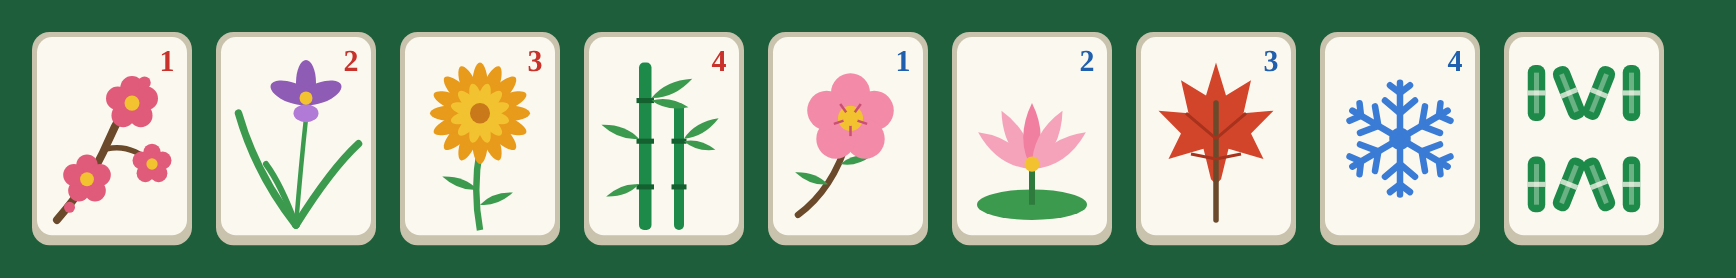
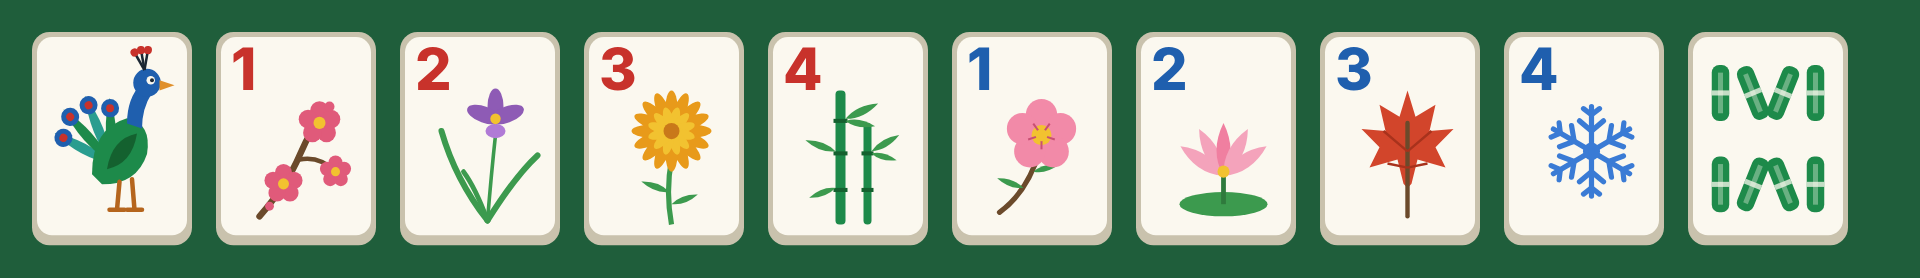
Tiles: much bigger numbers on flower and season tiles; redraw 1 bamboo as a peacock
Claude-Session: https://claude.ai/code/session_015YHyyK2QNgGagiGzuaLbCn

diff --git a/client/src/TileFace.tsx b/client/src/TileFace.tsx
@@ -207,18 +207,37 @@ function StickShape([x, y, h, c, tilt = 0]: Stick, key: number): ReactElement {
   );
 }
 
-/** One of bamboo: a simple bird. */
+/** One of bamboo: a peacock with a crest and a fanned tail (flat style). */
 function Bird(): ReactElement {
+  const tail: [number, number][] = [[-62, 26], [-42, 29], [-22, 29], [-2, 26]];
   return (
     <g>
-      <path d="M14 58 Q8 70 20 70 L28 60 Z" fill={BLUE} />
-      <path d="M18 60 Q12 74 26 72 L30 62 Z" fill={RED} />
-      <ellipse cx={32} cy={48} rx={14} ry={11} fill={GREEN} />
-      <circle cx={42} cy={30} r={7} fill={GREEN} />
-      <path d="M48 29 L56 31 L48 33 Z" fill={RED} />
-      <circle cx={44} cy={29} r={1.6} fill={IVORY} />
-      <path d="M38 23 Q40 14 46 18 Q42 20 42 24 Z" fill={RED} />
-      <path d="M30 59 L28 70 M34 59 L36 70" stroke={DARK} strokeWidth={2} />
+      {/* Tail feathers fanning down to the left, each with an "eye". */}
+      {tail.map(([angle, len], i) => (
+        <g key={i} transform={`translate(30 50) rotate(${angle + 180})`}>
+          <path d={`M0 0 Q4 ${len * 0.5} 0 ${len} Q-4 ${len * 0.5} 0 0 Z`} fill={i % 2 ? GREEN : '#2a9d8f'} />
+          <circle cx={0} cy={len - 4} r={3.6} fill={BLUE} />
+          <circle cx={0} cy={len - 4} r={1.6} fill={RED} />
+        </g>
+      ))}
+      {/* Body and wing. */}
+      <path d="M22 54 Q22 36 36 32 Q46 34 44 46 Q40 58 26 58 Z" fill={GREEN} />
+      <path d="M28 52 Q30 40 40 38 Q38 50 28 52 Z" fill="#14612f" />
+      {/* Neck and head. */}
+      <path d="M36 34 Q36 24 42 18 L46 22 Q42 28 42 36 Z" fill={BLUE} />
+      <circle cx={44} cy={18} r={5.5} fill={BLUE} />
+      <circle cx={45.5} cy={17} r={1.7} fill={IVORY} />
+      <circle cx={46} cy={17} r={0.8} fill={DARK} />
+      <path d="M49 17 L55 19 L49 21 Z" fill="#e0902b" />
+      {/* Crest: three thin plumes with dots. */}
+      {[-30, -10, 10].map((r) => (
+        <g key={r} transform={`rotate(${r} 43 13)`}>
+          <line x1={43} y1={13} x2={43} y2={5} stroke={DARK} strokeWidth={1} />
+          <circle cx={43} cy={5} r={1.6} fill={RED} />
+        </g>
+      ))}
+      {/* Legs. */}
+      <path d="M33 57 L32 68 M38 56 L39 68 M29 68 L35 68 M36 68 L42 68" stroke="#b5651d" strokeWidth={1.8} strokeLinecap="round" />
     </g>
   );
 }
@@ -268,12 +287,16 @@ function Face({ type }: { type: TileType }): ReactElement {
   }
   const Picture = FLOWER_PICTURES[type];
   if (Picture) {
-    // Picture plus the small number (1-4) that says which seat it belongs to.
+    // Picture plus a big number (1-4) that says which seat it belongs to.
     const isFlower = type[0] === 'f';
     return (
       <g>
-        <Picture />
-        {text(String(n), 10, 12, isFlower ? RED : BLUE, 52)}
+        <g transform="translate(9 13) scale(0.8)">
+          <Picture />
+        </g>
+        <text x={4} y={21} fontSize={23} fill={isFlower ? RED : BLUE} fontFamily="system-ui, sans-serif" fontWeight={800}>
+          {n}
+        </text>
       </g>
     );
   }

diff --git a/PROJECT_NOTES.md b/PROJECT_NOTES.md
@@ -77,7 +77,8 @@ disagrees with those, the newest dated entry here wins.
 | 2026-11-08 | **Spectate button** in the middle of the seat picker: anyone can start watching straight away (a seated player who taps it leaves their seat). Spectators get a "Take a seat" button between rounds. | Kyle |
 | 2026-11-08 | **CPUs only from the host page.** New games start with all 4 seats empty. Players can never add a CPU. "Drop out" in a player's settings just frees the seat (the player becomes a spectator and keeps their chips). During a round the empty seat keeps its tiles and the game waits on it until the host page adds a CPU. Swapping with a spectator (who must confirm) is still available. | Kyle |
 | 2026-11-08 | **8 bamboo:** outer sticks straight up; the middle four lean to make an M (top) over a W (bottom). | Kyle |
-| 2026-11-08 | **Flower and season tiles show pictures, not words.** Flowers (the "Four Gentlemen"): plum blossom, orchid, chrysanthemum, bamboo. Seasons have no standard picture, so: spring peach blossom, summer lotus, autumn maple leaf, winter snowflake. Each keeps its small number 1–4 (red for flowers, blue for seasons). Preview: `docs/screenshots/flower-tiles.png`. | Kyle (season pictures: Claude, Kyle may change) |
+| 2026-11-08 | **Flower and season tiles show pictures, not words.** Flowers (the "Four Gentlemen"): plum blossom, orchid, chrysanthemum, bamboo. Seasons have no standard picture, so: spring peach blossom, summer lotus, autumn maple leaf, winter snowflake. Each shows a big number 1–4 in the top-left corner (red for flowers, blue for seasons). Preview: `docs/screenshots/flower-tiles.png`. | Kyle (season pictures: Claude, Kyle may change) |
+| 2026-11-08 | **1 bamboo** is drawn as a flat peacock (crest, fanned tail with eye spots) instead of the earlier simple bird. | Kyle |
 | 2026-11-08 | **First dealer** of a new game is seat 0 (East). | Claude (Kyle may change) |
 | 2026-11-08 | **Undo moves:** discard, 上, 碰, 槓, 胡. Draws are not separate moves. Undoing a discard puts the tile back in that player's hand and it is their turn again. | Kyle |
 | 2026-11-08 | **Several games at once:** one server can run many separate games, each with its own name. | Kyle |
